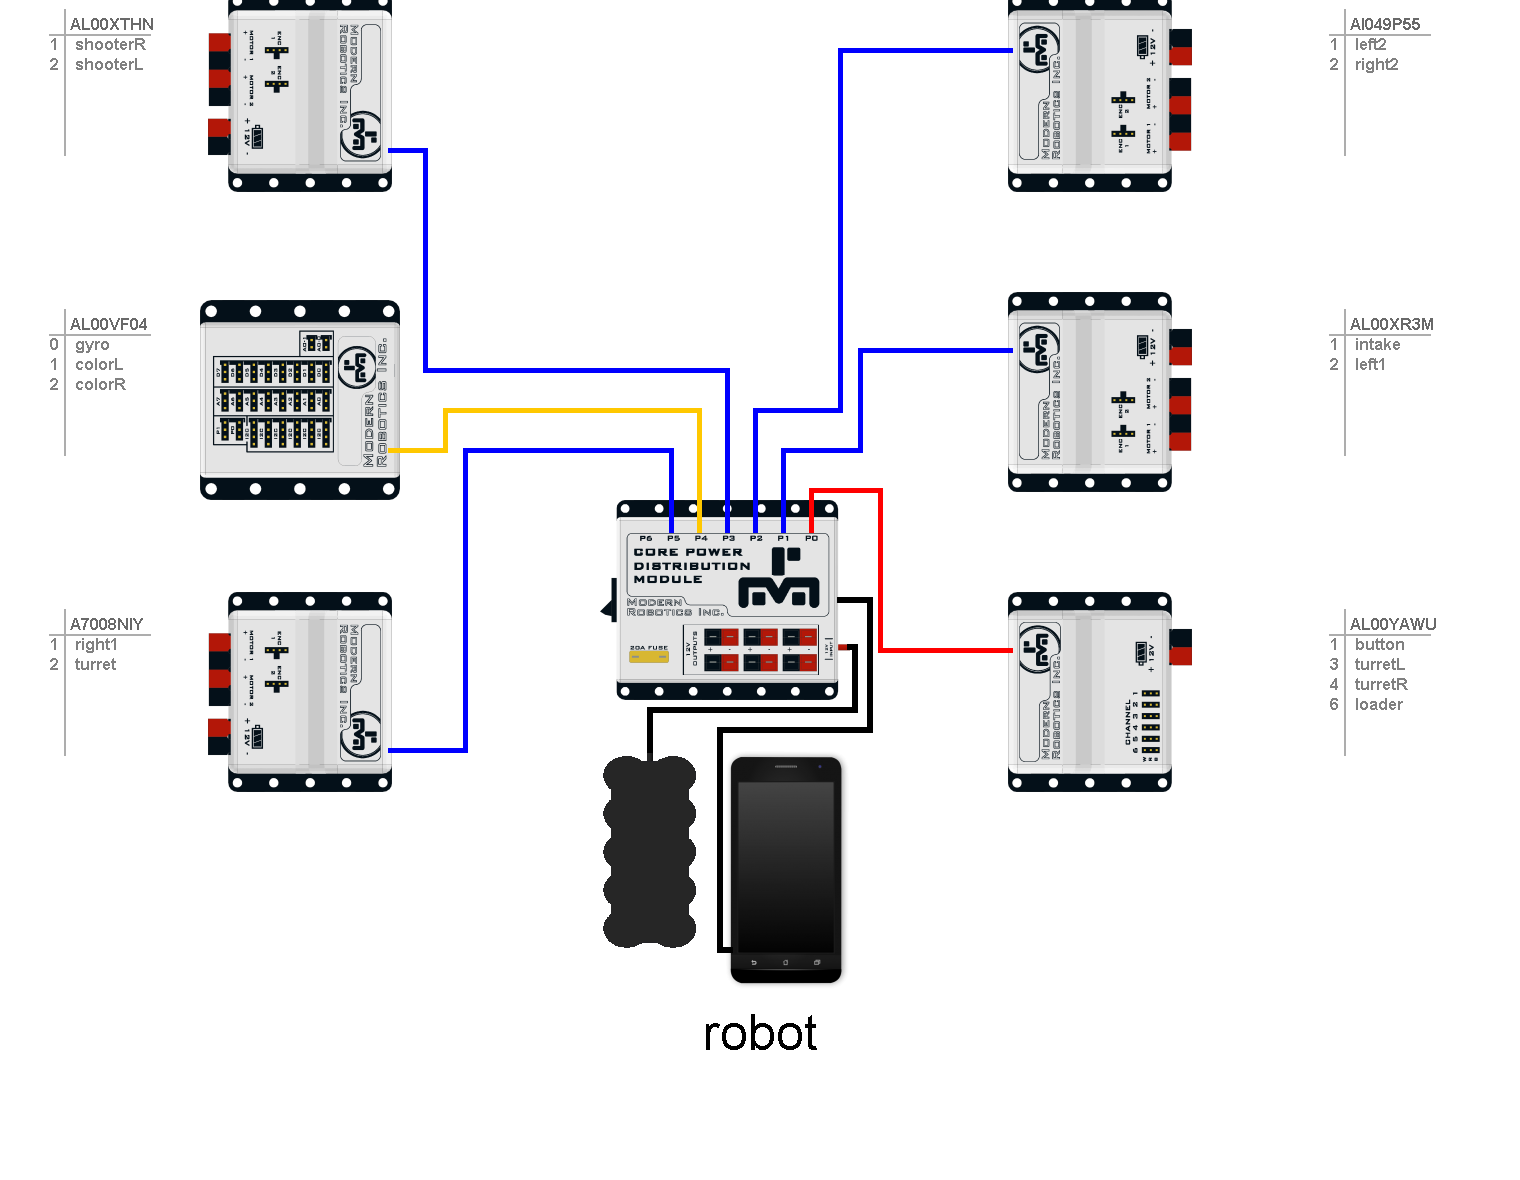
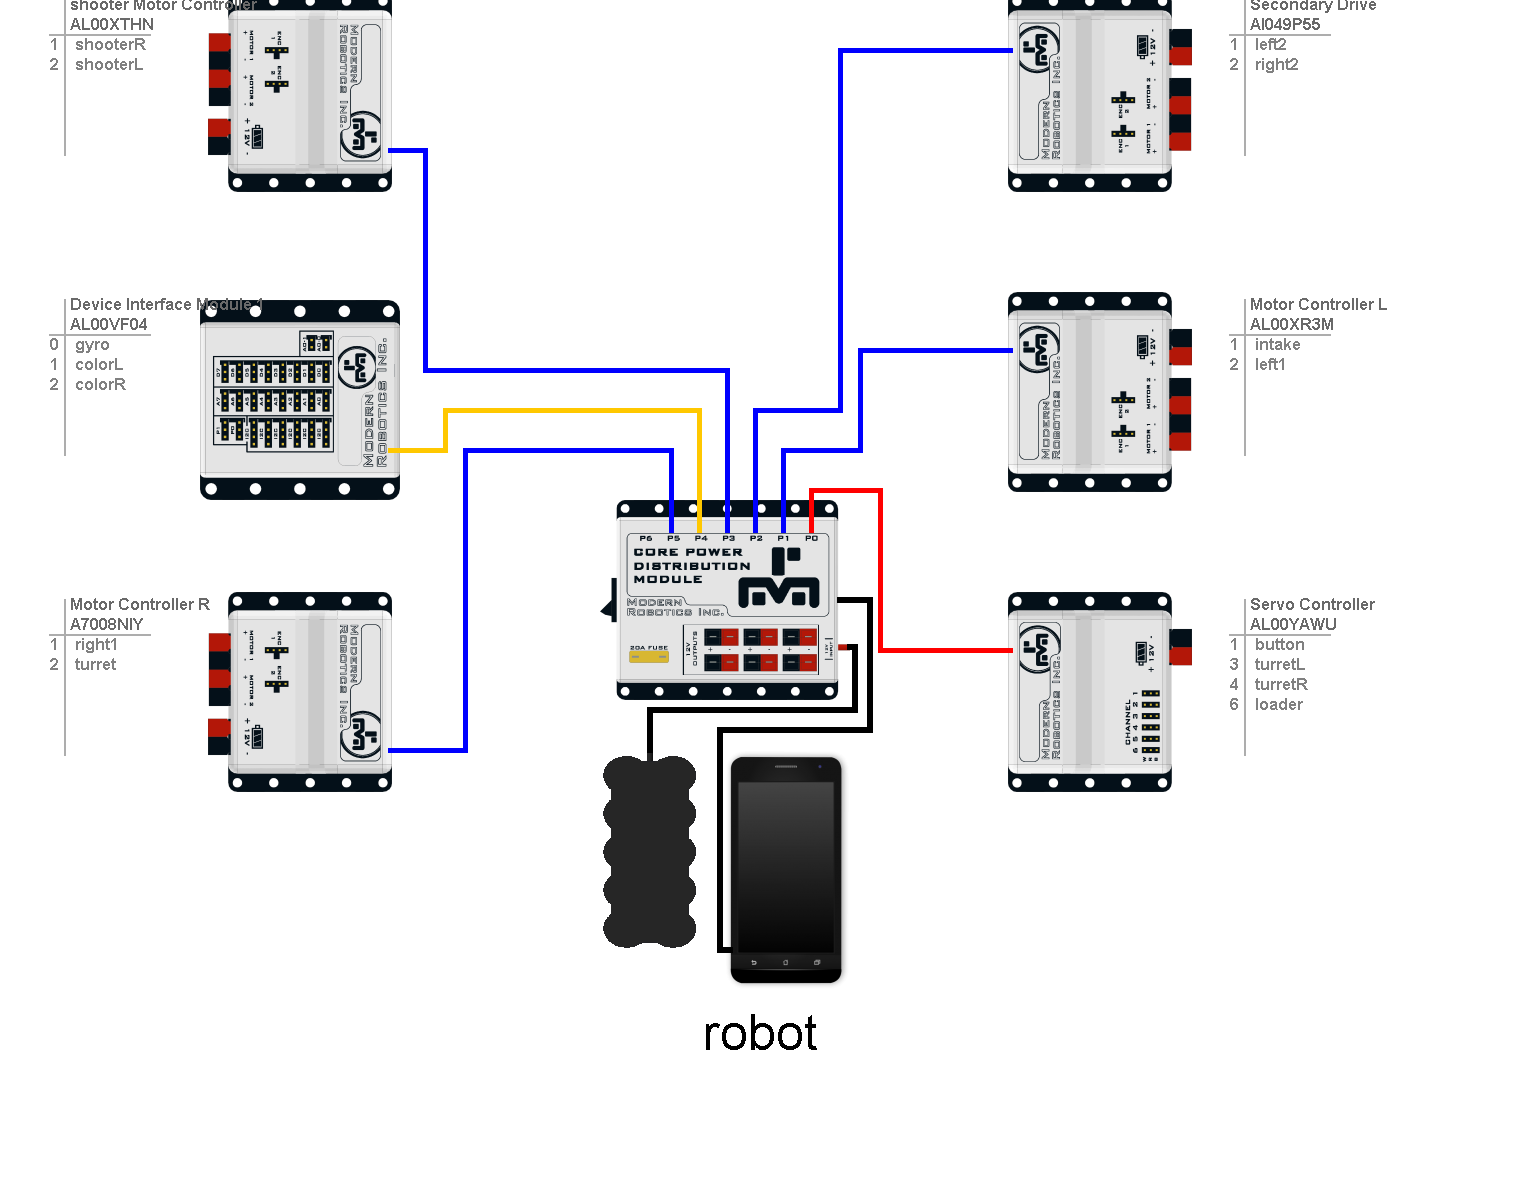
Update VuforiaNavigation file.  Also updated the wiring image and the image measurement in FTC_2016-17.xml.

diff --git a/Griffins/src/main/java/org/firstinspires/ftc/griffins/Testing/VuforiaNavigation.java b/Griffins/src/main/java/org/firstinspires/ftc/griffins/Testing/VuforiaNavigation.java
@@ -51,32 +51,33 @@ import org.firstinspires.ftc.robotcore.external.navigation.VuforiaTrackable;
 import org.firstinspires.ftc.robotcore.external.navigation.VuforiaTrackableDefaultListener;
 import org.firstinspires.ftc.robotcore.external.navigation.VuforiaTrackables;
 
+import java.util.Arrays;
 import java.util.Locale;
 
 /**
  * This OpMode illustrates the basics of using the Vuforia localizer to determine
  * positioning and orientation of robot on the FTC field.
  * The code is structured as a LinearOpMode
- *
+ * <p>
  * Vuforia uses the phone's camera to inspect it's surroundings, and attempt to locate target images.
- *
+ * <p>
  * When images are located, Vuforia is able to determine the position and orientation of the
  * image relative to the camera.  This sample code than combines that information with a
  * knowledge of where the target images are on the field, to determine the location of the camera.
- *
+ * <p>
  * This example assumes a "diamond" field configuration where the red and blue alliance stations
  * are adjacent on the corner of the field furthest from the audience.
  * From the Audience perspective, the Red driver station is on the right.
  * The four vision target are located on the two walls closest to the audience, facing in.
  * The Gears and the Tools are on the RED side of the field, and the Wheels and the Legos are on the Blue side.
- *
+ * <p>
  * A final calculation then uses the location of the camera on the robot to determine the
  * robot's location and orientation on the field.
  *
  * @see VuforiaLocalizer
  * @see VuforiaTrackableDefaultListener
  * see  ftc_app/doc/tutorial/FTC_FieldCoordinateSystemDefinition.pdf
- *
+ * <p>
  * IMPORTANT: In order to use this OpMode, you need to obtain your own Vuforia license key as
  * is explained below.  David Has Licence Key
  */
@@ -86,8 +87,15 @@ import java.util.Locale;
 public class VuforiaNavigation extends LinearOpMode {
 
     public static final String TAG = "Vuforia Sample";
+    public static final int BLUE_MIDDLE_TARGET_INDEX = 0;
+    public static final int RED_FAR_TARGET_INDEX = 1;
+    public static final int BLUE_FAR_TARGET_INDEX = 2;
+    public static final int RED_MIDDLE_TARGET_INDEX = 3;
+    public static final String[] TARGET_NAMES = {"Blue Mid (Wheels)", "Red Far (Tools)", "Blue Far(Legos)", "Red Mid (Gears)"};
 
     private OpenGLMatrix lastLocation = null;
+    private OpenGLMatrix[] locationRelativeToTargets = null;
+    private boolean[] targetsVisible = null;
 
     /**
      * {@link #vuforia} is the variable we will use to store our instance of the Vuforia
@@ -95,9 +103,44 @@ public class VuforiaNavigation extends LinearOpMode {
      */
     private VuforiaLocalizer vuforia;
     private VuforiaTrackables visionTargets;
+    private boolean vuforiaReady = false;
+    private boolean vuforiaActivated = false;
+    private boolean isTargetVisible = false;
+
+    /**
+     * A simple utility that extracts positioning information from a transformation matrix
+     * and formats it in a form palatable to a human being.
+     */
+    public static String format(OpenGLMatrix transformationMatrix) {
+        float[] data = transformationMatrix.getTranslation().getData();
+        Orientation orientation = Orientation.getOrientation(transformationMatrix, AxesReference.EXTRINSIC, AxesOrder.XYZ, AngleUnit.DEGREES);
+
+        return String.format(Locale.ENGLISH, "(%+05.1f, %+05.1f, %+05.1f), rot.(z-axis) %+03.1f, %s", data[0], data[1], data[2], orientation.thirdAngle, orientation.toString());
+    }
+
+    /**
+     * UNTESTED
+     *
+     * @param transformationMatrix the OpenGLMatrix to extract data from
+     * @return an array with the relevant data, in the order [x coordinate, y coordinate, z axis rotation]
+     */
+    public static double[] extractData(OpenGLMatrix transformationMatrix) {
+        double[] data = new double[3];
+        float[] translationData = transformationMatrix.getTranslation().getData();
+
+        data[0] = translationData[0];
+        data[1] = translationData[1];
+        data[2] = Orientation.getOrientation(transformationMatrix, AxesReference.EXTRINSIC, AxesOrder.XYZ, AngleUnit.DEGREES).thirdAngle;
+
+        return data;
+    }
 
     public boolean isVuforiaReady() {
         return vuforiaReady;
+    }
+
+    public boolean isVuforiaActivated() {
+        return vuforiaActivated;
     }
 
     public VuforiaTrackables getVisionTargets() {
@@ -110,9 +153,43 @@ public class VuforiaNavigation extends LinearOpMode {
         return lastLocation;
     }
 
-    private boolean vuforiaReady = false;
+    public OpenGLMatrix[] getLocationRelativeToTargets() {
+        return locationRelativeToTargets;
+    }
 
-    public void initializeVuforia () {
+    public boolean[] getTargetsVisible() {
+        return targetsVisible;
+    }
+
+    /**
+     * Start tracking Vuforia images
+     */
+    public boolean activateTracking() {
+        // Start tracking any of the defined targets
+        if (vuforiaReady && !vuforiaActivated) {
+            visionTargets.activate();
+            vuforiaActivated = true;
+        }
+        return vuforiaReady;
+    }
+
+    public void deactivateTracking() {
+        if (vuforiaReady && vuforiaActivated) {
+            visionTargets.deactivate();
+
+            //invalidate any remaining data
+            lastLocation = null;
+            for (int i = 0; i < visionTargets.size(); i++) {
+                locationRelativeToTargets[i] = null;
+                targetsVisible[i] = false;
+            }
+            isTargetVisible = false;
+
+            vuforiaActivated = false;
+        }
+    }
+
+    public void initializeVuforia() {
         vuforiaReady = false;
         /**
          * Start up Vuforia, telling it the id of the view that we wish to use as the parent for
@@ -151,16 +228,16 @@ public class VuforiaNavigation extends LinearOpMode {
          */
         visionTargets = this.vuforia.loadTrackablesFromAsset("FTC_2016-17");
 
-        VuforiaTrackable blueMidTarget = visionTargets.get(0);
+        VuforiaTrackable blueMidTarget = visionTargets.get(BLUE_MIDDLE_TARGET_INDEX);
         blueMidTarget.setName("Blue Middle Target");  // Wheels
 
-        VuforiaTrackable redFarTarget = visionTargets.get(1);
+        VuforiaTrackable redFarTarget = visionTargets.get(RED_FAR_TARGET_INDEX);
         redFarTarget.setName("Red Far Target");  // Tools
 
-        VuforiaTrackable blueFarTarget = visionTargets.get(2);
+        VuforiaTrackable blueFarTarget = visionTargets.get(BLUE_FAR_TARGET_INDEX);
         blueFarTarget.setName("Blue Far Target"); // Legos
 
-        VuforiaTrackable redMidTarget = visionTargets.get(3);
+        VuforiaTrackable redMidTarget = visionTargets.get(RED_MIDDLE_TARGET_INDEX);
         redMidTarget.setName("Red Middle Target"); // Gears
 
 
@@ -299,10 +376,14 @@ public class VuforiaNavigation extends LinearOpMode {
 //        RobotLog.ii(TAG, "Blue Target=%s", format(blueFarTargetLocationOnField));
 
         /**
+         * The phone starts out lying flat, with the screen facing Up(+Z) and with the physical top of the phone
+         * pointing to towards us(+Y).
+         *
          * Create a transformation matrix describing where the phone is on the robot. Here, we
          * put the phone on the right hand side of the robot with the screen facing out (see our
-         * choice of FRONT camera above) and in landscape mode. Starting from alignment between the
-         * robot's and phone's axes, this is a rotation of 90deg along the Y axis.
+         * choice of FRONT camera above) and in portrait mode. Starting from alignment between the
+         * robot's and phone's axes, this is a rotation of 90deg along the Y axis, then 90deg along
+         * the X axis.
          *
          * When determining whether a rotation is positive or negative, consider yourself as looking
          * down the (positive) axis of rotation from the positive towards the origin. Positive rotations
@@ -311,10 +392,10 @@ public class VuforiaNavigation extends LinearOpMode {
          * plane) is then CCW, as one would normally expect from the usual classic 2D geometry.
          */
         OpenGLMatrix phoneLocationOnRobot = OpenGLMatrix
-                .translation(mmPhoneXSlide, mmPhoneYSlide, mmPhoneZSlide)
+                .translation(0, 0, 0)
                 .multiplied(Orientation.getRotationMatrix(
-                        AxesReference.EXTRINSIC, AxesOrder.YZY,
-                        AngleUnit.DEGREES, 90, 0, 0));
+                        AxesReference.EXTRINSIC, AxesOrder.YXY,
+                        AngleUnit.DEGREES, 90, 90, 0));
         RobotLog.ii(TAG, "phone=%s", format(phoneLocationOnRobot));
 
         /**
@@ -327,14 +408,46 @@ public class VuforiaNavigation extends LinearOpMode {
         ((VuforiaTrackableDefaultListener) redMidTarget.getListener()).setPhoneInformation(phoneLocationOnRobot, parameters.cameraDirection);
         ((VuforiaTrackableDefaultListener) blueFarTarget.getListener()).setPhoneInformation(phoneLocationOnRobot, parameters.cameraDirection);
 
+        locationRelativeToTargets = new OpenGLMatrix[visionTargets.size()];
+        targetsVisible = new boolean[visionTargets.size()];
+
         vuforiaReady = true;
+    }
+
+    public void vuforiaProcessLoop() {
+        if (vuforiaReady) {
+            isTargetVisible = false;
+            for (int i = 0; i < visionTargets.size(); i++) {
+                VuforiaTrackable trackable = visionTargets.get(i);
+                /**
+                 * getUpdatedRobotLocation() will return null if no new information is available since
+                 * the last time that call was made, or if the trackable is not currently visible.
+                 * getRobotLocation() will return null if the trackable is not currently visible.
+                 */
+                locationRelativeToTargets[i] = ((VuforiaTrackableDefaultListener) trackable.getListener()).getPose();
+                targetsVisible[i] = ((VuforiaTrackableDefaultListener) trackable.getListener()).isVisible();
+
+                isTargetVisible |= ((VuforiaTrackableDefaultListener) trackable.getListener()).isVisible();
+
+                OpenGLMatrix robotLocationTransform = ((VuforiaTrackableDefaultListener) trackable.getListener()).getUpdatedRobotLocation();
+                if (robotLocationTransform != null) {
+                    lastLocation = robotLocationTransform;
+                }
+            }
+
+            if (!isTargetVisible) {
+                lastLocation = null;
+            }
+        } else {
+            RobotLog.ii(TAG, "Vuforia not ready yet!");
+        }
     }
 
     @Override
     public void runOpMode() {
         ElapsedTime vuforiaTimer = new ElapsedTime();
 
-        initializeVuforia();
+        this.initializeVuforia();
 
         /**
          * A brief tutorial: here's how all the math is going to work:
@@ -362,59 +475,33 @@ public class VuforiaNavigation extends LinearOpMode {
         waitForStart();
 
         /** Start tracking the data sets we care about. */
-        visionTargets.activate();
+        this.activateTracking();
 
         while (opModeIsActive()) {
             vuforiaTimer.reset();
 
-            boolean isTargetVisible = false;
+            this.vuforiaProcessLoop();
 
-            for (VuforiaTrackable trackable : visionTargets) {
-                /**
-                 * getUpdatedRobotLocation() will return null if no new information is available since
-                 * the last time that call was made, or if the trackable is not currently visible.
-                 * getRobotLocation() will return null if the trackable is not currently visible.
-                 */
-                OpenGLMatrix locationRelativeToTarget = ((VuforiaTrackableDefaultListener) trackable.getListener()).getPose();
-                telemetry.addData(trackable.getName(), ((VuforiaTrackableDefaultListener) trackable.getListener()).isVisible() ? "Visible" : "Not Visible");
-                if (locationRelativeToTarget != null) {
-                    telemetry.addData("location relative to target", format(locationRelativeToTarget));
-                }
-                isTargetVisible |= ((VuforiaTrackableDefaultListener) trackable.getListener()).isVisible();
-
-                OpenGLMatrix robotLocationTransform = ((VuforiaTrackableDefaultListener) trackable.getListener()).getUpdatedRobotLocation();
-                if (robotLocationTransform != null) {
-                    lastLocation = robotLocationTransform;
+            for (int i = 0; i < TARGET_NAMES.length; i++) {
+                telemetry.addData(TARGET_NAMES[i], this.getTargetsVisible()[i] ? "Visible" : "Not Visible");
+                if (this.getLocationRelativeToTargets()[i] != null) {
+                    telemetry.addData("location relative to target", Arrays.toString(extractData(this.getLocationRelativeToTargets()[i])));
                 }
             }
 
-            /**
-             * Provide feedback as to where the robot was last located (if we know).
-             */
-            if (!isTargetVisible) {
-                lastLocation = null;
-            }
-            if (lastLocation != null) {
+
+            if (this.getLastLocation() != null) {
                 //  RobotLog.vv(TAG, "robot=%s", format(lastLocation));
-                telemetry.addData("Pos", format(lastLocation));
+                telemetry.addData("Pos", format(this.getLastLocation()));
+                telemetry.addData("Relevant Data", Arrays.toString(extractData(this.getLastLocation())));
             } else {
                 telemetry.addData("Pos", "Unknown");
+                telemetry.addData("Relevant Data", "None");
             }
             telemetry.addData("Loop Time (ms)", vuforiaTimer.milliseconds());
             telemetry.update();
         }
 
-        visionTargets.deactivate();
-    }
-
-    /**
-     * A simple utility that extracts positioning information from a transformation matrix
-     * and formats it in a form palatable to a human being.
-     */
-    String format(OpenGLMatrix transformationMatrix) {
-        float[] data = transformationMatrix.getTranslation().getData();
-        Orientation orientation = Orientation.getOrientation(transformationMatrix, AxesReference.EXTRINSIC, AxesOrder.XYZ,AngleUnit.DEGREES);
-
-        return String.format(Locale.ENGLISH, "(%+05.1f, %+05.1f, %+05.1f), rot.(z-axis) %+03.1f, %s", data[0], data[1], data[2], orientation.thirdAngle, orientation.toString());
+        this.deactivateTracking();
     }
 }
